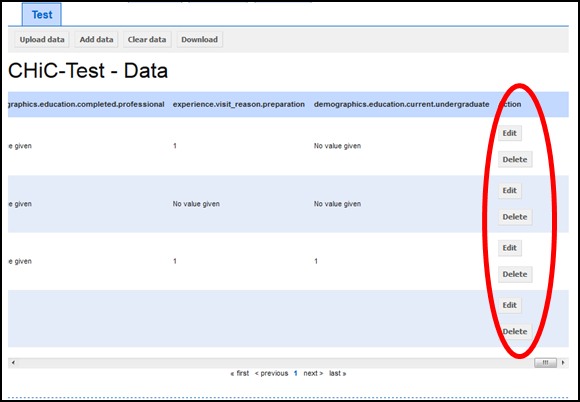
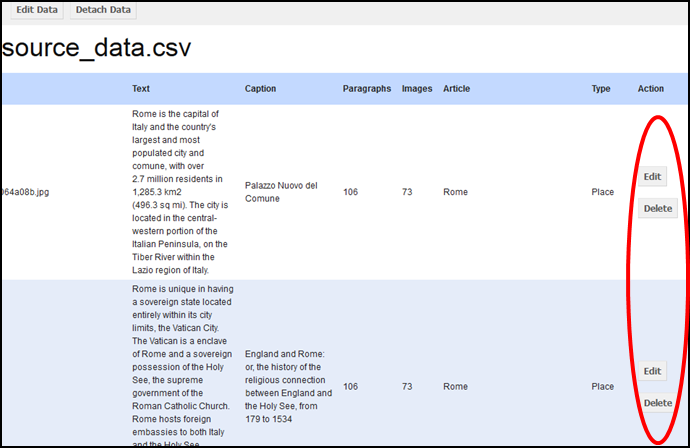
Final piece of work - manual now complete
--HG--
branch : documentation

diff --git a/docs/user/get_data.rst b/docs/user/get_data.rst
@@ -18,6 +18,15 @@
 .. |dontUpdateButton| image:: ../_static/user/dontUpdateButton.png 
 .. |add| image:: ../_static/user/add.png
 .. |dontAdd| image:: ../_static/user/dontAdd.png 
+.. |data| image:: ../_static/user/dataTabButton.png 
+.. |newDataSet| image:: ../_static/user/newDataSet.png 
+.. |uploadDataSet| image:: ../_static/user/uploadDataSet.png 
+.. |minus| image:: ../_static/user/minusButton.png 
+.. |plus| image:: ../_static/user/plusButton.png
+.. |create| image:: ../_static/user/createButton.png
+.. |addItemButton| image:: ../_static/user/addItemButton.png
+.. |detach| image:: ../_static/user/detachButton.png
+.. |dataButton| image:: ../_static/user/dataButton.png 
 
 .. note::
 
@@ -29,20 +38,24 @@ Downloading, creating, uploading and clearing data and datasets
 ---------------------------------------------------------------
 In this sub-section you will learn how to work with data gathered from your experiments. As the title suggests, there are four data-relevant functions that the survey system has:
 
-1. Download data - go to the :ref:`relevant sub-subsection <downloadData>`
+1. Download data - go specifically to downloading data relating to :ref:`the results of a survey<downloadSurveyData>` **or** the :ref:`sample data uploaded to a survey<downloadPageData>` for testing purposes.
  
-2. Upload data to a survey question - go to the :ref:`relevant sub-subsection <uploadData>`
+2. Upload data to a survey and attach it to a survey page - go to the :ref:`relevant sub-subsection <uploadData>`
 
-3. Editing the uploaded data, with particular attention to the option of manually adding experiment results gathered through a paper copy of the survey - go to the :ref:`relevant sub-subsection <editData>`
-
-4. Clear data attached to a survey question - go to the :ref:`relevant sub-subsection <clearData>`
+3. Editing or deleting the data sets from a survey - go to the :ref:`relevant sub-subsection <editData>`
+  
+4. Editing and deleting the data items (:doc:`ref<conceptsAndTerms>`) of a data set or detaching a data set attached to a survey page. This part contains instructions for editing and deleting the data items (:doc:`ref<conceptsAndTerms>`) of a data set **or** detaching a data set attached to a survey page - go to the :ref:`relevant sub-subsection <clearData>`
 
 .. _downloadData:
 
-Downloading data
-^^^^^^^^^^^^^^^^
+Downloading data and data sets
+^^^^^^^^^^^^^^^^^^^^^^^^^^^^^^
 
-- **From a survey that has finished or is still running**
+.. _downloadSurveyData:
+
+**Results data from a survey**
+""""""""""""""""""""""""""""""
+*(these are data relating to the results of a survey that has finished or is still running)*
 
   a) First, navigate to the **home page** (:doc:`ref<conceptsAndTerms>`) of the required survey, if you are not already there.
   
@@ -120,112 +133,238 @@ Downloading data
 	   - To navigate back to your **Results** screen, click on the |results| tab at the top of the screen.
 
 :ref:`back to the top <topDataSection>`
-	   
-- **From a survey question**
+	
+.. _downloadPageData:
+	
+**Sample data from a survey**
+"""""""""""""""""""""""""""""
 
-  a) Navigate to the **home page** (:doc:`ref<conceptsAndTerms>`) of the appropriate survey and find the required questions from the list provided. 
+This functionality is different to downloading results data from a survey that is either finished or is still running, as you are not actually downloading data gathered through participants completing your survey. 
+
+Rather, the data you are downloading are sample data that you might have previously uploaded to the survey, when the latter was in development. Uploading data is explained better further below, in the :ref:`relevant sub-subsection <uploadData>`.
+
+So, to download the sample data that are attached to a survey:
+
+  a) Navigate to the **home page** (:doc:`ref<conceptsAndTerms>`) of the appropriate survey and find the required survey page from the survey's list of survey pages.
   
-  b) Click on the |dataButton| button, located within the box of the relevant question, as illustrated in the screenshot below:
-	   
-	 .. image:: ../_static/user/dataScreen.png
-	    :align: center
+  b) Click on the **Data** tab as shown in the screenshot below:
   
-  c) This will take you to the **Data** screen for that question, of which an example screenshot is provided below:
+	.. image:: ../_static/user/dataTab.png
+	        :align: center
+
+  c) This will then take you to the **Data Sets** screen, shown below, where a list of the data sets you have uploaded to the survey will be displayed:
   
-	 .. image:: ../_static/user/data.png
-	    :align: center
-		
-  d) To extract the required data, simply click on the |download| button located on the grey strip above the title of the survey.
+    .. image:: ../_static/user/dataSets.png
+	        :align: center 
   
-  e) Upon clicking that button, a prompt message will appear asking you to save the relevant .csv file on your computer.
+  d) To extract the required data, simply click on the |download| button, indicated in the screenshot above.
   
-  f) To navigate back to your **Results** screen, click on the |results| button at the top of the screen.
+  e) Upon clicking that button, a prompt message will appear asking you to save the relevant .csv file on your computer. Carry out the appropriate action to download the file.
   
-.. Important:: *Downloading data from a survey question, works only after uploading data to it. The relevant process is explained in the sub-subsection below.*
-      
+  f) To navigate back to your **Results** screen, click on the |results| tab, above the title **Data Sets**.
+  
 :ref:`back to the top <topDataSection>`
 
 .. _uploadData:
 
-Uploading data
-^^^^^^^^^^^^^^
+Uploading and attaching data
+^^^^^^^^^^^^^^^^^^^^^^^^^^^^
 
-Data can only be uploaded to a specific survey question.
-
-  a) To do this, navigate to the appropriate survey question as shown above, in the previous sub-subsection.
+You would upload data to a survey and then attach these to specific survey pages, if you want to test the survey you are developing and see how it works when data are added.
+ 
+  a) To upload data, navigate to the appropriate survey's home page.
   
-  b) Click on the |upload| button, located on the grey strip above the title of the survey.
-
-  c) You will then be directed to **Upload Data** screen for that question, as shown below:
+  b) Click on the **Data** tab as shown in the screenshot below:
   
-	 .. image:: ../_static/user/uploadDataScreen.png
-	    :align: center
+	.. image:: ../_static/user/dataTab.png
+	        :align: center
+
+  c) This will then take you to the **Data Sets** screen, shown below, where a list of the data sets you have uploaded to the survey will be displayed:
+  
+    .. image:: ../_static/user/dataSets.png
+	        :align: center 
+
+  d) On that screen, you can either upload a new data set or creating a data set manually:
+  
+Upload a new data set
+"""""""""""""""""""""
+   
+   d.1.1) To upload a new data set, click on the |uploadDataSet| button, located in the grey strip above the title **Data Sets**.
+   
+   d.1.2) This will then take you to the **Upload Data Set** screen, as shown below, where you can select the CSV file that contains the data you wish to upload:
+  
+	    .. image:: ../_static/user/uploadDataScreen.png
+	            :align: center
 		
-  d) Click on the |browse| button on that screen and navigate to the .csv file that you want to upload
+   d.1.3) Click on the |browse| button on that screen and navigate to the .csv file that you want to upload
   
-  e) Then click on the |uploadButton| button located on the right of your screen, to upload the .csv file choosen, or the |dontUploadButton| button, if you decide that you do not want to proceed with the upload.
+   d.1.4) Then click on the |uploadButton| button located on the right of your screen, to upload the .csv file choosen, or the |dontUploadButton| button, if you decide that you do not want to proceed with the upload.
   
-  f) By clicking the |uploadButton| button, the next screen you will see is the **Data** screen shown below:
+   d.1.5) By clicking the |uploadButton| button, the next screen you will see is the **Data Sets** screen, mentioned above in step (c).
   
-	 .. image:: ../_static/user/addDataScreen.png
-	    :align: center
+Create a new data set manually
+""""""""""""""""""""""""""""""
+	
+   d.2.1) To create a new data set, click on the |newDataSet| button, located in the grey strip above the title **Data Sets**.
+   
+   d.2.2) This will lead you to the **New Data Set** screen, provided below:
+   
+        .. image:: ../_static/user/newDataSetScreen.png
+		        :align: center
+				
+   d.2.3) On that screen you can add the name of the data set, by typing this in the box under the title **Name**, and the titles of the attributes that the data set will have, by typing in the boxes below **Item attributes**. Note that the attribute titles will actually correspond to the titles of the columns that the data set will have.
+   
+   d.2.4) You can add more attributes by clicking on the |plus| button or remove attributes by clicking on the |minus| button. Both these buttons are located to the right of the attribute title. 
+   
+   d.2.5) When you are done adding or removing attributes, click on the |create| button at the bottom right hand-side of the screen.
+   
+   d.2.6) By doing so, the title of the **New Data Set** screen will change to **Edit Data Set** and the buttons |dontUpdate| and |update| will appear. You can use these buttons after you have removed or added attributes at a later stage. An example of this is given below:
+   
+        .. image:: ../_static/user/editDataSet.png
+				:align: center							
+   
+   d.2.7) When you are done with the new data set you have just added, click on any of the tabs above the title **Edit Data Set** to go to the **Results**, **Survey**, **Data** or **Preview** screens.
+   
+  e) Whether you have uploaded or created a data set manually, you will then be able to edit it. Details of this functionality are given in the sub-subsection :ref:`Editing the uploaded data <editData>` below.
+  
+  f) Following the above steps, you can attach a data set to a survey page of your choice.
+  
+  g) To do this, find the required survey page from the survey's list of pages and click on the |dataButton| button, located within the box of the relevant page, as illustrated in the screenshot below:
+	   
+	 .. image:: ../_static/user/dataScreen.png
+			 :align: center
+  
+  h) This will take you to the **Data** screen for that page:
+  
+	 - If there are no data attached to that page, you will get the screen provided below. In this case, you will need to follow the instructions for :ref:`uploading data to a survey<uploadData>`:
+  
+	 .. image:: ../_static/user/noData.png
+			 :align: center
+	 
+	 -------------------------------------------------------------
+	 
+	 - If there are data attached to that page, you will get the following screen, providing you with the name of the file of sample data attached, the different columns in that file and the sample data contained in the file:
+	 
+	 .. image:: ../_static/user/Data.png
+			 :align: center
+			 
+  i) Click on the **Attach Data** button, as demonstrated in the screenshot below:
+   
+   .. image:: ../_static/user/attachData.png
+		   :align: center
+   
+  k) This will lead you to the **Attach Data Set to Page** screen, where by clicking on the arrow of the drop-down menu, next to the title **Data Set to attach**, you can choose an uploaded data set to attach to that page. Then click on the **Attach** button to actually attach the data set to the page:
+  
+   .. image:: ../_static/user/attachDataSet.png
+		   :align: center
+		   
+  l) Upon clicking the **Attach** button, you will be directed to the data set itself. There, you can:
 
-  g) You will then be able to edit the uploaded data as shown in the relevant sub-subsection below.
+   1. Edit the data set
+   2. Edit one or more data items of that data set
+   3. Delete one or more data items
+   4. Detach the data set from the page
+	
+These functionalities are explained in more detail in the sections below.
 
 :ref:`back to the top <topDataSection>`
 
 .. _editData:
 
-Editing the uploaded data
-^^^^^^^^^^^^^^^^^^^^^^^^^
+Editing or deleting the data sets from a survey
+^^^^^^^^^^^^^^^^^^^^^^^^^^^^^^^^^^^^^^^^^^^^^^^
 
-  a) If you want to *edit* or *delete* any of the records uploaded, then scroll to the right of the above screen by using the scroll bar as indicated in the screenshot below:
+  a) To *edit* or *delete* any of the data sets uploaded to a survey, navigate to the **Data Sets** screen by clicking on the **Data** tab, as shown at step (b) of the :ref:`Uploading data <uploadData>` sub-subsection above.
   
-     .. image:: ../_static/user/scrollRight.png
-	    :align: center
-
-  b) By doing this, you will find the |editButton| and |deleteButton| buttons as indicated in the screenshot below:
+  b) On the **Data Sets** screen, find the data set you want to work with from the list of data sets provided (if you have previously uploaded more than one). 
   
-	 .. image:: ../_static/user/editDeleteScreen.png
-	    :align: center
+  c) Then click on the |editButton| button to edit that data set or the |deleteButton| button to delete that data set. Both buttons are located to the right of the title of the data set you need, under the title **Action**.
   
-  c) Clicking on the |editButton| button will allow you to edit the answers of a given record, through the **Edit Data** screen, an example of which is given below:
+   c.1) If you clicked on the |editButton| button, the **Edit Data Set** screen should have appeared where, as mentioned already further above, you can add or remove attributes (see **step d.2.6** of the **Create a new data set manually** part right above). An example screenshot of this screen is provided below:
+   
+      .. image:: ../_static/user/editDataSet.png
+			  :align: center
   
-  d) When you are done editing, scroll to the bottom of the screen and either click on the |updateButton| button or the |dontUpdateButton| button. Whichever you click on, you will be directed back to the **Data** screen.
-  
-  e) If you click on the |deleteButton| button, below the |editButton| button, you will be asked to confirm that you want to delete a given record. Click **OK** and the record will be deleted.
-  
-  f) You will have also noticed that a new button has now appeared next to the |uploadButton| button, above the uploaded records. This is the |addDataButton| button. This button is particularly useful should you need to enter experiment results gathered through a paper copy of the survey.
-  
-  g) By clicking on that button, you will be provided with the option to manually add data to your survey. An example of the screen you are directed to is the one below:
-  
-     .. image:: ../_static/user/addDataScreenTwo.png
-	    :align: center
- 
-  i) After you type the required answers in each of the fields corresponding to the questions included in the survey, scroll down the screen and either click on the |add| button or the |dontAdd| button. 
-  
-  k) Whichever you click on, you will be directed back to the **Data** screen. The only difference will be that if you added a record manually, this will appear at the end of the list of records in the **Data** screen.
+   c.2) If you clicked on the |deleteButton| button, the **Delete Data Set** screen should have appeared. On this screen, click on the |deleteButton| button to delete that data set. Following the deletion of the data set, you will be taken back to the **Data Sets** screen. 
+   
+   An example screenshot of the **Delete Data Set** screen is given below:
+   
+      .. image:: ../_static/user/deleteDataSet.png
+	          :align: center
 
 :ref:`back to the top <topDataSection>`
 
 .. _clearData:
 
-Clearing data
-^^^^^^^^^^^^^
+Editing and deleting the data items of a data set or detaching a data set attached to a survey page
+^^^^^^^^^^^^^^^^^^^^^^^^^^^^^^^^^^^^^^^^^^^^^^^^^^^^^^^^^^^^^^^^^^^^^^^^^^^^^^^^^^^^^^^^^^^^^^^^^^^
 
-Last, but not least, is the option to clear any data you have uploaded before. 
+Last, but not least, is the option to edit the data items (:doc:`ref<conceptsAndTerms>`) of a data set or detach a data set attached to a survey page.
 
-  a) To do this, navigate to the survey question where you uploaded your data.
+  a) To do any of the above, navigate to the survey page that has a data set attached to it. 
   
-  b) Click on the |dataButton| button to be directed to the question's page. 
+  b) Click on the |dataButton| button, as demonstrated in the screenshot below:
   
-  c) In the question's page, click on the |clear| button located on the grey strip above the title of the survey.
+   .. image:: ../_static/user/dataScreen.png
+	       :align: center
+		   
+  c) This will take you to the data set attached to that page.
+
+Editing and deleting the data items of a data set
+"""""""""""""""""""""""""""""""""""""""""""""""""
   
-  d) A message will appear asking you to confirm deletion of data uploaded to that question.
+  d) On the appearing screen, scroll to the right of the above screen by using the scroll bar as indicated in the screenshot below:
   
-  e) When you click **OK**, you will be taken back to the question's page, with the following message appearing within a dotted rectangle:
-  
-     .. image:: ../_static/user/noDataMessage.png
+     .. image:: ../_static/user/scrollRight.png
 	    :align: center
+
+  e) By doing this, you will find the |editButton| and |deleteButton| buttons as indicated in the screenshot below:
   
+   .. image:: ../_static/user/editDeleteScreen.png
+	       :align: center
+  
+   **e.1)** Clicking on the |editButton| button will allow you to edit the values of the data item (:doc:`ref<conceptsAndTerms>`) you have just chosen. 
+   
+         e.1.1) To edit those values, simply click in the boxes below the title of each attribute and type what you require. The above is done through the **Edit Data** screen, an example of which is given below:
+		 
+		        .. image:: ../_static/user/editDataItem.png
+	                    :align: center
+    
+		e.1.2) When you are done editing, scroll to the bottom of the screen and either click on the |updateButton| button or the |dontUpdateButton| button. Whichever you click on, you will be directed back to the **Data** screen.
+   
+		e.1.3) You can also add a new data item (:doc:`ref<conceptsAndTerms>`) on a data set, by clicking on the |addItemButton| button, that has now appeared next  buttons **Edit**, **Delete** and **Download**.
+   
+		e.1.4) By clicking on that button, you will be provided with the option to manually add data to your survey. An example of the screen you are directed to is the one below:
+		
+		      .. image:: ../_static/user/addDataScreenTwo.png
+	                  :align: center
+  
+		e.1.5) After you type the required values in each of the fields corresponding to the questions included in the survey, scroll down the screen and either click on the |add| button or the |dontAdd| button. 
+   
+		e.1.6) Whichever you click on, you will be directed back to the **Data** screen. The only difference will be that if you added a record manually, this will appear at the end of the list of records in the **Data** screen.
+
+   **e.2)** If you click on the |deleteButton| button, you will be asked to confirm that you want to delete a given record. Click **OK** and the record will be deleted.
+
+Detaching a data set attached to a survey page
+""""""""""""""""""""""""""""""""""""""""""""""
+To detach a data set from a survey page is quite simple.
+
+a) Navigate to the required survey page as shown further above.
+
+b) Click on the |dataButton| button of that survey page and you will be directed to the data set attached to that survey page.
+
+c) As shown in the screenshot below, next to the **Edit Data** button, there is a **Detach Data** button:
+
+  .. image:: ../_static/user/detachData.png
+          :align: center
+
+d) Click on that button and you will be taken to a screen similar to the one below:
+
+  .. image:: ../_static/user/detachDataScreen.png
+          :align: center
+
+e) On that screen, click on the |detach| button to detach the data set attached to the survey page.
+
+f) Following the above, you will be led back to the survey's **home page** (:doc:`ref<conceptsAndTerms>`).
+	  
 :ref:`back to the top <topDataSection>`

diff --git a/docs/user/edit_page.rst b/docs/user/edit_page.rst
@@ -378,7 +378,7 @@ The page's title will be used to refer to the relevant question, when you export
 		   
 		   To choose the type of question that will go on your survey page, click on the downward arrow of the drop-down menu under the field title **Type**.
 		   
-		2. Add data items by typing a number in the relevant field. Here you specify how many data items should be selected from the "Data Set" that you attached to the page. The questions will be repeated for each selected data item. This makes it possible to have the same question(s) answered for different data items. 
+		2. Add data items (:doc:`ref<conceptsAndTerms>`) by typing a number in the relevant field. Here you specify how many data items(:doc:`ref<conceptsAndTerms>`) should be selected from the "Data Set" that you attached to the page. The questions will be repeated for each selected data item (:doc:`ref<conceptsAndTerms>`). This makes it possible to have the same question(s) answered for different data items. 
 		   
 		   .. image:: ../_static/user/dataItems.png
 				   :align: center

diff --git a/docs/user/conceptsAndTerms.rst b/docs/user/conceptsAndTerms.rst
@@ -8,6 +8,9 @@ Concepts and Terms
   *Control Item*
      refers to a question for which you expect a certain answer. This question is used to establish whether a survey participant is carrying out the survey properly and not just choosing replies in a random fashion. Using this tool, you can discard any participants who have provided a different response to the one expected.	
 
+  *Data Item*
+     refers to item/record included in a data set. A data set has many data items, with each data item corresponding to the reply of a participant to a specific survey question.
+	 
   *Home Page*
      refers to the main screen of a given survey. An example screenshot is provided below
 	 

diff --git a/docs/user/run_survey.rst b/docs/user/run_survey.rst
@@ -128,7 +128,7 @@ There are two ways to start a survey depending on where in the system you are.
 
  .. image:: ../_static/user/startSurveyHome.png
 		 :align: center
-
+		 
 **2.** If you are in the **main profile screen** (:doc:`ref<conceptsAndTerms>`), find the correct survey from your surveys list and click on the |start| button from the set of buttons available. An example of this is provided below:
 
  .. image:: ../_static/user/startSurvey.png
